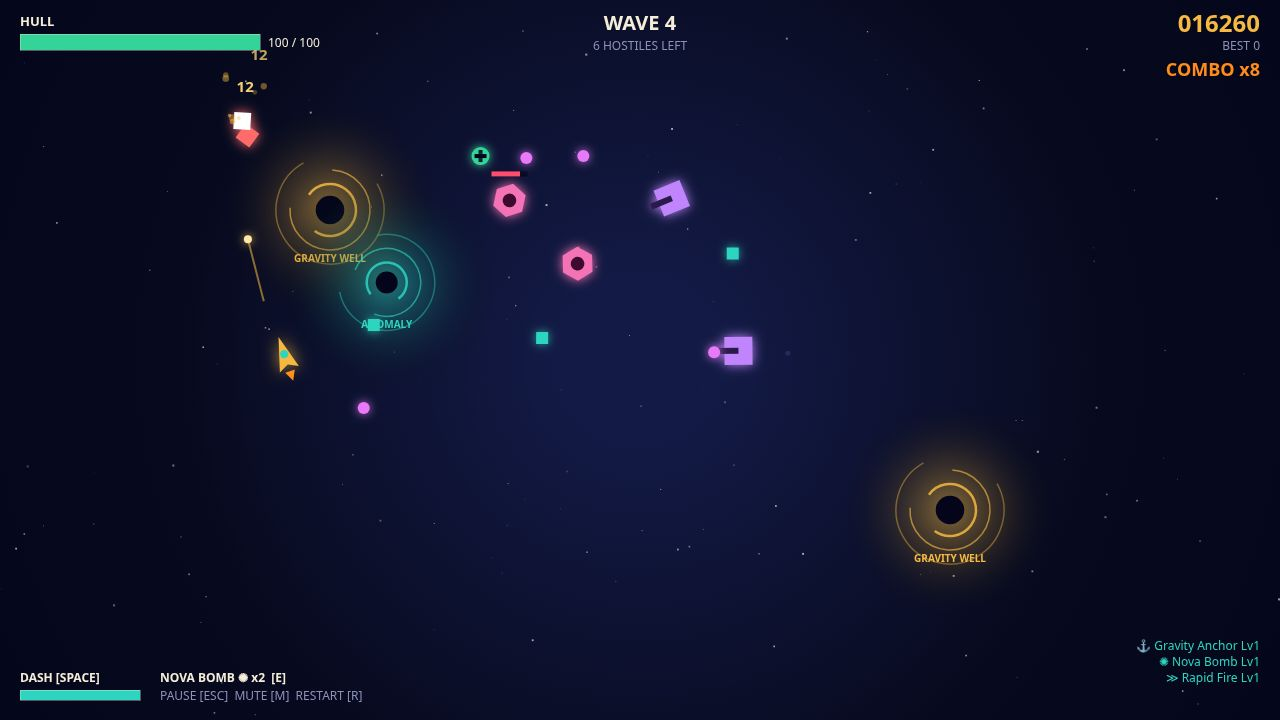
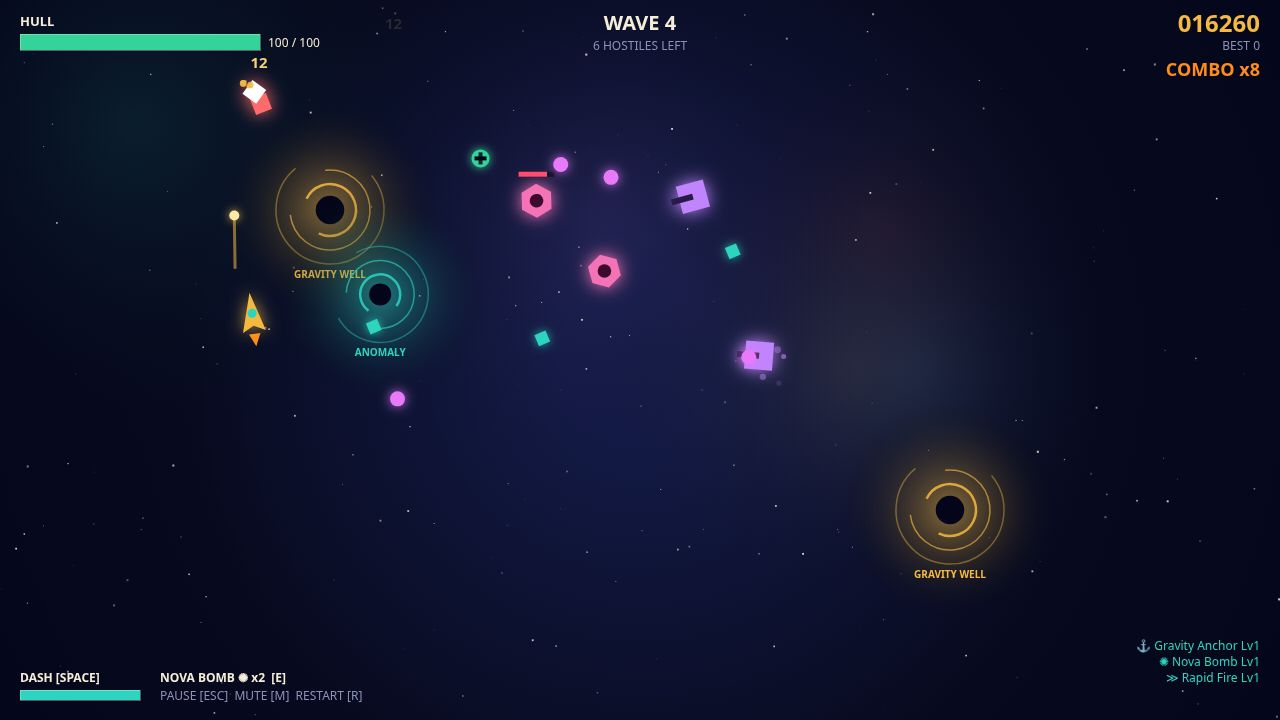
best-game-01: polish Nova Drift for the judge (richer arena, denser cover, stronger end run)

diff --git a/game/src/main.js b/game/src/main.js
@@ -35,8 +35,18 @@ const audio = createAudio();
 const stars = [];
 {
   const rng = createRng(99);
-  for (let i = 0; i < 150; i += 1) {
+  for (let i = 0; i < 220; i += 1) {
     stars.push({ x: rng() * ARENA_W, y: rng() * ARENA_H, r: 0.5 + rng() * 1.6, phase: rng() * Math.PI * 2 });
+  }
+}
+
+// Seeded nebula clouds so the arena reads as deep space, never empty void.
+const nebulae = [];
+{
+  const rng = createRng(7);
+  const hues = ['rgba(45,212,191,0.10)', 'rgba(245,185,66,0.08)', 'rgba(192,132,252,0.09)', 'rgba(255,93,58,0.07)', 'rgba(125,211,252,0.08)'];
+  for (let i = 0; i < 5; i += 1) {
+    nebulae.push({ x: 120 + rng() * (ARENA_W - 240), y: 90 + rng() * (ARENA_H - 180), r: 180 + rng() * 160, color: hues[i] });
   }
 }
 
@@ -65,9 +75,17 @@ function drawBackground(time) {
   grad.addColorStop(1, PALETTE.bgDeep);
   ctx.fillStyle = grad;
   ctx.fillRect(0, 0, ARENA_W, ARENA_H);
+  for (let i = 0; i < nebulae.length; i += 1) {
+    const n = nebulae[i];
+    const g = ctx.createRadialGradient(n.x, n.y, 10, n.x, n.y, n.r);
+    g.addColorStop(0, n.color);
+    g.addColorStop(1, 'rgba(0,0,0,0)');
+    ctx.fillStyle = g;
+    ctx.fillRect(n.x - n.r, n.y - n.r, n.r * 2, n.r * 2);
+  }
   for (let i = 0; i < stars.length; i += 1) {
     const s = stars[i];
-    ctx.globalAlpha = 0.35 + 0.35 * Math.sin(time * 1.5 + s.phase);
+    ctx.globalAlpha = 0.45 + 0.4 * Math.sin(time * 1.5 + s.phase);
     ctx.fillStyle = PALETTE.cream;
     ctx.fillRect(s.x, s.y, s.r, s.r);
   }
@@ -101,7 +119,7 @@ function drawWells(time) {
     ctx.fillStyle = well.color;
     ctx.font = 'bold 10px system-ui, sans-serif';
     ctx.textAlign = 'center';
-    ctx.fillText(well.kind === 'anomaly' ? 'ANOMALY' : 'GRAVITY WELL', well.x, well.y + well.radius + 26);
+    ctx.fillText(well.kind === 'anomaly' ? 'ANOMALY' : 'GRAVITY WELL', well.x, well.y + well.radius + 42);
   }
 }
 
@@ -114,6 +132,7 @@ function drawPlayer(time) {
   // Engine flame, longer while dashing.
   const thrust = p.dashTime > 0 ? 26 : 12 + Math.sin(time * 30) * 3;
   ctx.rotate(p.angle);
+  ctx.scale(1.15, 1.15);
   ctx.fillStyle = PALETTE.amber;
   ctx.beginPath();
   ctx.moveTo(-p.r - 2, 5);
@@ -147,7 +166,7 @@ function drawEnemies(time) {
     ctx.translate(e.x, e.y);
     ctx.globalAlpha = 1;
     ctx.shadowColor = e.color;
-    ctx.shadowBlur = 12;
+    ctx.shadowBlur = 18;
     ctx.fillStyle = e.flash > 0 ? '#ffffff' : e.color;
     if (e.kind === 'shard') {
       ctx.rotate(time * 2 + e.wobble);
@@ -239,7 +258,7 @@ function drawBullets() {
   for (let i = 0; i < state.bullets.length; i += 1) {
     const b = state.bullets[i];
     ctx.strokeStyle = 'rgba(245,185,66,0.55)';
-    ctx.lineWidth = 2;
+    ctx.lineWidth = 3;
     ctx.beginPath();
     for (let t = 0; t < b.trail.length; t += 1) {
       if (t === 0) ctx.moveTo(b.trail[t].x, b.trail[t].y);
@@ -250,7 +269,7 @@ function drawBullets() {
     ctx.shadowColor = 'rgba(245,185,66,0.9)';
     ctx.shadowBlur = 8;
     ctx.beginPath();
-    ctx.arc(b.x, b.y, b.r, 0, Math.PI * 2);
+    ctx.arc(b.x, b.y, b.r + 1, 0, Math.PI * 2);
     ctx.fill();
     ctx.shadowBlur = 0;
   }
@@ -258,9 +277,9 @@ function drawBullets() {
     const b = state.enemyBullets[i];
     ctx.fillStyle = '#e879f9';
     ctx.shadowColor = 'rgba(232,121,249,0.9)';
-    ctx.shadowBlur = 10;
+    ctx.shadowBlur = 12;
     ctx.beginPath();
-    ctx.arc(b.x, b.y, b.r, 0, Math.PI * 2);
+    ctx.arc(b.x, b.y, b.r + 1.5, 0, Math.PI * 2);
     ctx.fill();
     ctx.shadowBlur = 0;
   }
@@ -413,29 +432,66 @@ function stageShot(name) {
   if (name === 'upgrade') {
     for (let i = 0; i < 150 / STEP; i += 1) {
       updateArena(state, pilot, STEP, null);
-      if (state.phase === 'upgrade') return 'upgrade';
+      if (state.phase === 'upgrade') {
+        state.floaters.length = 0;
+        state.particles.length = 0;
+        return 'upgrade';
+      }
     }
     state.enemies.length = 0;
     updateArena(state, pilot, STEP, null);
+    state.floaters.length = 0;
+    state.particles.length = 0;
     return 'upgrade';
   }
   if (name === 'end') {
-    for (let i = 0; i < 300 / STEP; i += 1) {
-      updateArena(state, pilot, STEP, null);
-      if (state.phase === 'over') return 'over';
+    // Play carefully into wave 3 first, so the results show a real run
+    // (several waves, dozens of kills), then go reckless and die.
+    const careful = autopilotInput(false);
+    for (let i = 0; i < 120 / STEP; i += 1) {
+      if (state.phase === 'upgrade') chooseUpgrade(state, 0, null);
+      updateArena(state, careful, STEP, null);
+      if (state.wave >= 3 || state.phase === 'over') break;
     }
-    state.player.hp = 0;
-    updateArena(state, pilot, STEP, null);
+    if (state.phase !== 'over') {
+      for (let i = 0; i < 300 / STEP; i += 1) {
+        updateArena(state, pilot, STEP, null);
+        if (state.phase === 'over') break;
+      }
+    }
+    if (state.phase !== 'over') {
+      state.player.hp = 0;
+      updateArena(state, pilot, STEP, null);
+    }
+    state.floaters.length = 0;
+    state.particles.length = 0;
     return 'over';
   }
-  // play: push into wave 2 and stop mid-fight, bullets flying.
-  for (let i = 0; i < 40 / STEP; i += 1) {
-    if (state.phase === 'upgrade') chooseUpgrade(state, 0, null);
-    updateArena(state, pilot, STEP, null);
-    if (state.wave >= 2 && state.time - state.waveSpawnedAt > 6 && state.enemies.length >= 5) break;
-    if (state.phase === 'over') break;
+  // play: push into wave 4 and stop mid-fight, bullets flying, so the cover
+  // shows the full enemy mix (splitters, comets) at its densest — and only
+  // when the ship is in the central frame, clear of the HUD text, so the
+  // score and wave stay readable. If the autopilot dies on the way, fall
+  // back to the wave-2 frame.
+  const playTarget = (minWave, minEnemies, framed) => {
+    for (let i = 0; i < 55 / STEP; i += 1) {
+      if (state.phase === 'upgrade') chooseUpgrade(state, 0, null);
+      updateArena(state, pilot, STEP, null);
+      const p = state.player;
+      const inFrame = !framed || (p.x > 250 && p.x < 1030 && p.y > 150 && p.y < 600);
+      if (state.wave >= minWave && state.time - state.waveSpawnedAt > 5 && state.enemies.length >= minEnemies && inFrame) return 'play';
+      if (state.phase === 'over') return 'over';
+    }
+    return state.phase === 'over' ? 'over' : 'play';
+  };
+  let screen = playTarget(4, 6, true);
+  if (screen === 'over') {
+    resetArena(state);
+    state.seed = SHOT_SEED;
+    state.rng = createRng(SHOT_SEED);
+    startRun(state);
+    screen = playTarget(2, 5, false);
   }
-  return state.phase === 'over' ? 'over' : 'play';
+  return screen;
 }
 
 let best = readBest();

diff --git a/game/src/hud.js b/game/src/hud.js
@@ -184,9 +184,10 @@ export function drawUpgradeScreen(ctx, state) {
     ctx.font = '15px system-ui, sans-serif';
     wrapText(ctx, choice.desc, left + w / 2, y + 190, w - 44, 22);
     const level = (state.player.upgradeLevels[choice.id] || 0) + 1;
+    const alreadyMaxed = (state.player.upgradeLevels[choice.id] || 0) >= choice.max;
     ctx.fillStyle = PALETTE.teal;
     ctx.font = 'bold 14px system-ui, sans-serif';
-    ctx.fillText(level >= choice.max ? 'MAX LEVEL' : `BECOMES Lv ${level}`, left + w / 2, y + h - 26);
+    ctx.fillText(alreadyMaxed ? 'MAX LEVEL' : `BECOMES Lv ${level}`, left + w / 2, y + h - 26);
   });
 }
 
@@ -227,9 +228,12 @@ export function drawGameOverScreen(ctx, state, best) {
   ctx.fillText(`WAVE ${state.wave}   ·   ${state.kills} KILLS   ·   BEST ${Math.max(best, state.score)}`, 640, 392);
   const blink = 0.55 + 0.45 * Math.sin(state.time * 3.2);
   ctx.globalAlpha = blink;
-  ctx.fillStyle = PALETTE.teal;
+  ctx.fillStyle = PALETTE.cream;
+  ctx.shadowColor = 'rgba(245,237,216,0.6)';
+  ctx.shadowBlur = 12;
   ctx.font = 'bold 22px system-ui, sans-serif';
   ctx.fillText('PRESS R OR CLICK TO FLY AGAIN', 640, 560);
+  ctx.shadowBlur = 0;
   ctx.globalAlpha = 1;
 }
 
